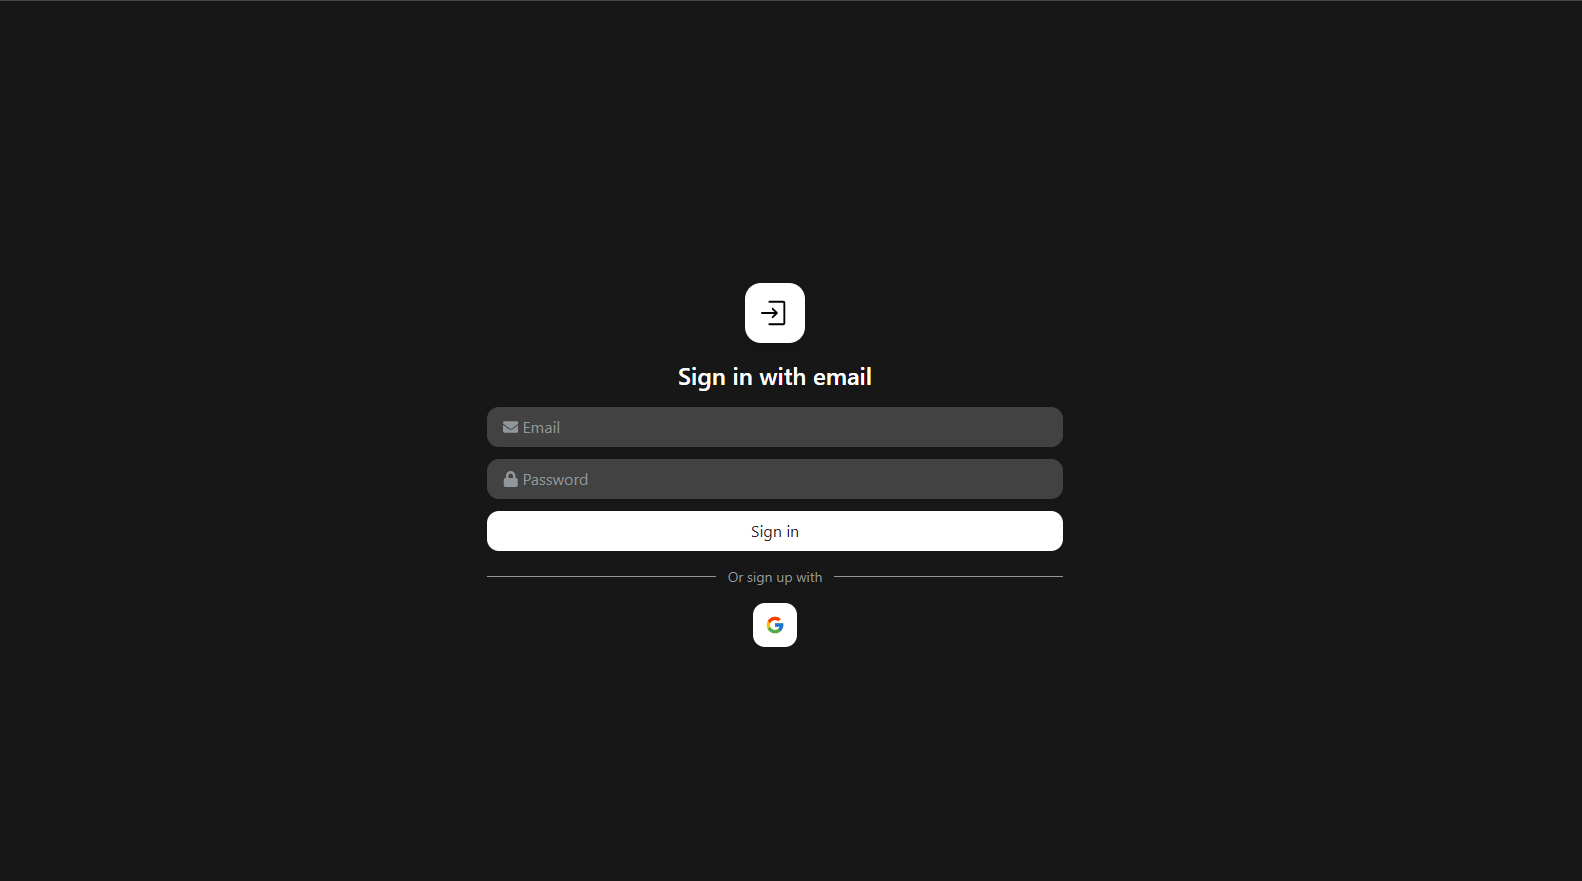
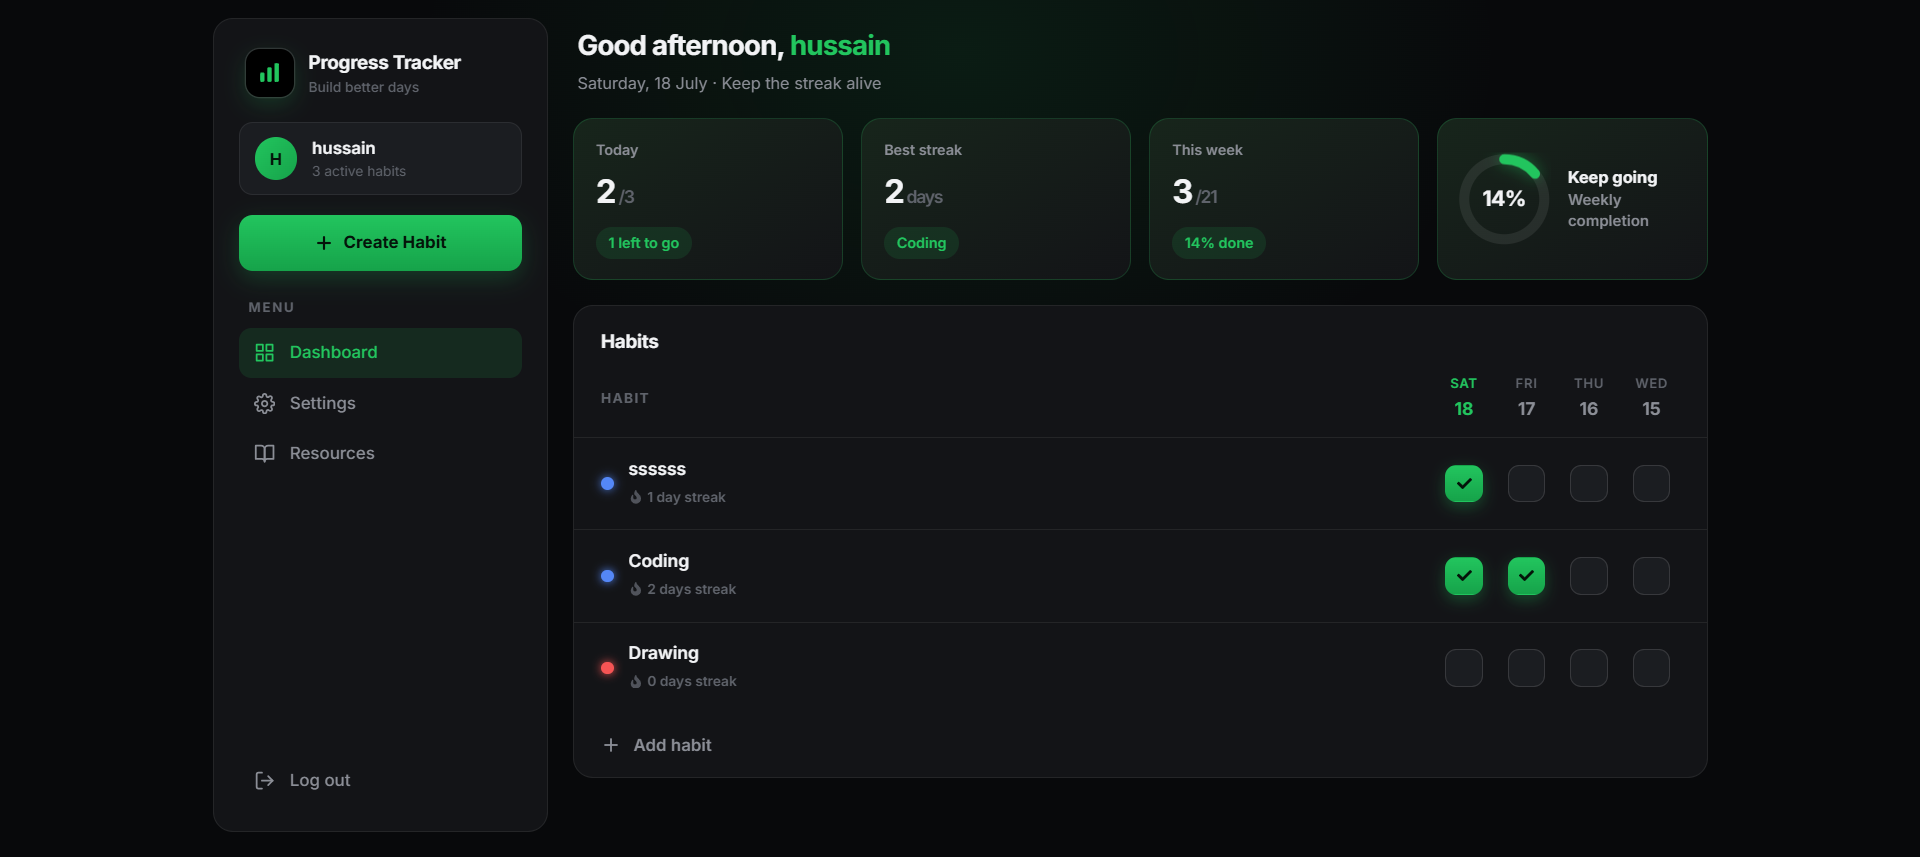
feat(projects): update Progress Tracker content and fix shared detail blurb
The project detail page rendered a hardcoded AI-mock-interview subtitle for
every project, so Progress Tracker showed a description belonging to a
different project. Move the copy into the project data and read it from there.

Refresh Progress Tracker with its current stack (Redux Toolkit replaces
zustand) and its six shipped features, plus a new screenshot. Stat tiles now
derive from list length so the counts cannot drift from the lists again.

Refs #2

diff --git a/src/page/project/components/MainContainer.tsx b/src/page/project/components/MainContainer.tsx
@@ -31,17 +31,14 @@ export default function MainContainer() {
           {data?.alt}
         </h1>
         <div className="w-28 h-1 my-6 rounded-full bg-linear-to-r from-blue-500 to-purple-500 animate-pulse" />
-        <h3 className="text-base text-white/70">
-          Real-time mock interviews with AI, no forms or clicks just natural, personalized
-          conversations.
-        </h3>
+        <h3 className="text-base text-white/70">{data?.description}</h3>
         <div className="flex flex-1 gap-3 p-4 my-6 rounded-xl bg-white/3">
           <div className="flex flex-1 items-center gap-2 p-2 sm:p-3 rounded-xl border border-blue-300/30 bg-white/6 transition-all duration-300 hover:scale-101 hover:border-blue-300">
             <div className="flex items-center justify-center  size-7 sm:size-10 rounded-full bg-blue-300/10">
               <FaCode className="text-blue-300" />
             </div>
             <div>
-              <h3 className="text-base text-blue-300/70">{data?.technologies}</h3>
+              <h3 className="text-base text-blue-300/70">{data?.technologiesList.length}</h3>
               <h5 className="text-xs text-gray-400 truncate">Total Technologies</h5>
             </div>
           </div>
@@ -50,7 +47,7 @@ export default function MainContainer() {
               <BsStack className="text-purple-700" />
             </div>
             <div>
-              <h3 className="text-base text-purple-700/80">{data?.features}</h3>
+              <h3 className="text-base text-purple-700/80">{data?.featuresList.length}</h3>
               <h5 className="text-xs text-gray-400 truncate">Key Features</h5>
             </div>
           </div>
@@ -105,23 +102,35 @@ const projectDataList = [
   {
     id: 1,
     name: "Progress-Tracker",
-    features: 4,
-    technologies: 6,
-    technologiesList: ["React", "React Router", "Express", "Tailwind", "zustand", "Recharts"],
+    description:
+      "Track your daily habits and hobbies with streaks, heatmaps and charts — a clean dark dashboard that shows your progress at a glance.",
+    technologiesList: [
+      "React 19",
+      "TypeScript",
+      "React Router 7",
+      "Redux Toolkit",
+      "Tailwind CSS 4",
+      "Recharts",
+      "Yup",
+      "Luxon",
+      "Vite (Rolldown)",
+      "Express",
+    ],
     image: progressTracker,
     alt: "Progress Tracker",
     featuresList: [
-      "Dashboard – Simple, interface for your hobbies.",
-      "User Auth – Sign up/sign in via Backend authentication.",
-      "Track – Track your hobby progress.",
-      "Charts – See your progress on multiple charts.",
+      "Habit Dashboard – Create, edit and track all your habits from one dark-themed home screen.",
+      "Habit Detail & Heatmap – Per-habit page with a GitHub-style completion heatmap and derived stats.",
+      "Progress Charts – Visualise streaks and completion trends over time with Recharts.",
+      "Custom Scheduling – Set repeat rules, reminder times, end dates and a colour for every habit.",
+      "Secure Auth – JWT-based register, login, forgot-password and reset-password flows.",
+      "Persistent Sessions – Redux state with an /auth/me re-fetch, so a refresh never logs you out.",
     ],
   },
   {
     id: 2,
     name: "Polygrid",
-    features: 5,
-    technologies: 5,
+    description: "Talk to current affairs of state and post your ideas about it.",
     technologiesList: ["React Native", "RN Calenders", "RN Screens", "Firebase", "Redux"],
     image: polygrid,
     alt: "Polygrid",
@@ -136,8 +145,8 @@ const projectDataList = [
   {
     id: 3,
     name: "Joyed",
-    features: 3,
-    technologies: 6,
+    description:
+      "Share your activities with others and make a new friends for your related activity.",
     technologiesList: ["React Native", "axios", "lodash", "RN Screens", "Firebase", "Redux"],
     image: joyed,
     alt: "Joyed",

diff --git a/src/page/home/components/detailSection/Projects.tsx b/src/page/home/components/detailSection/Projects.tsx
@@ -60,9 +60,10 @@ const projectList = [
   {
     id: 1,
     img: progressTracker,
-    alt: "",
+    alt: "Progress Tracker",
     name: "Progress-Tracker",
-    description: "Track you daily progress and make a habit for a life time.",
+    description:
+      "Track your daily habits with streaks, heatmaps and charts in a clean dark dashboard.",
   },
   {
     id: 2,
